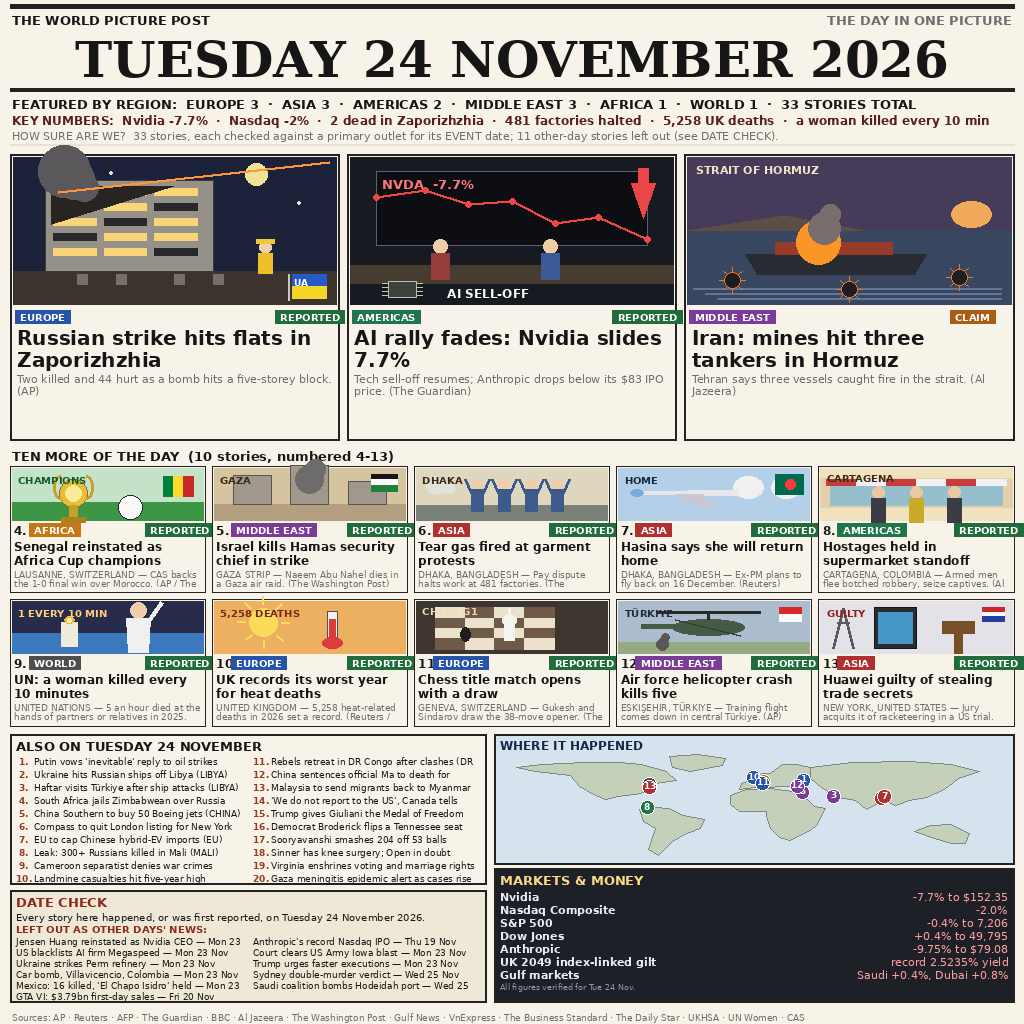
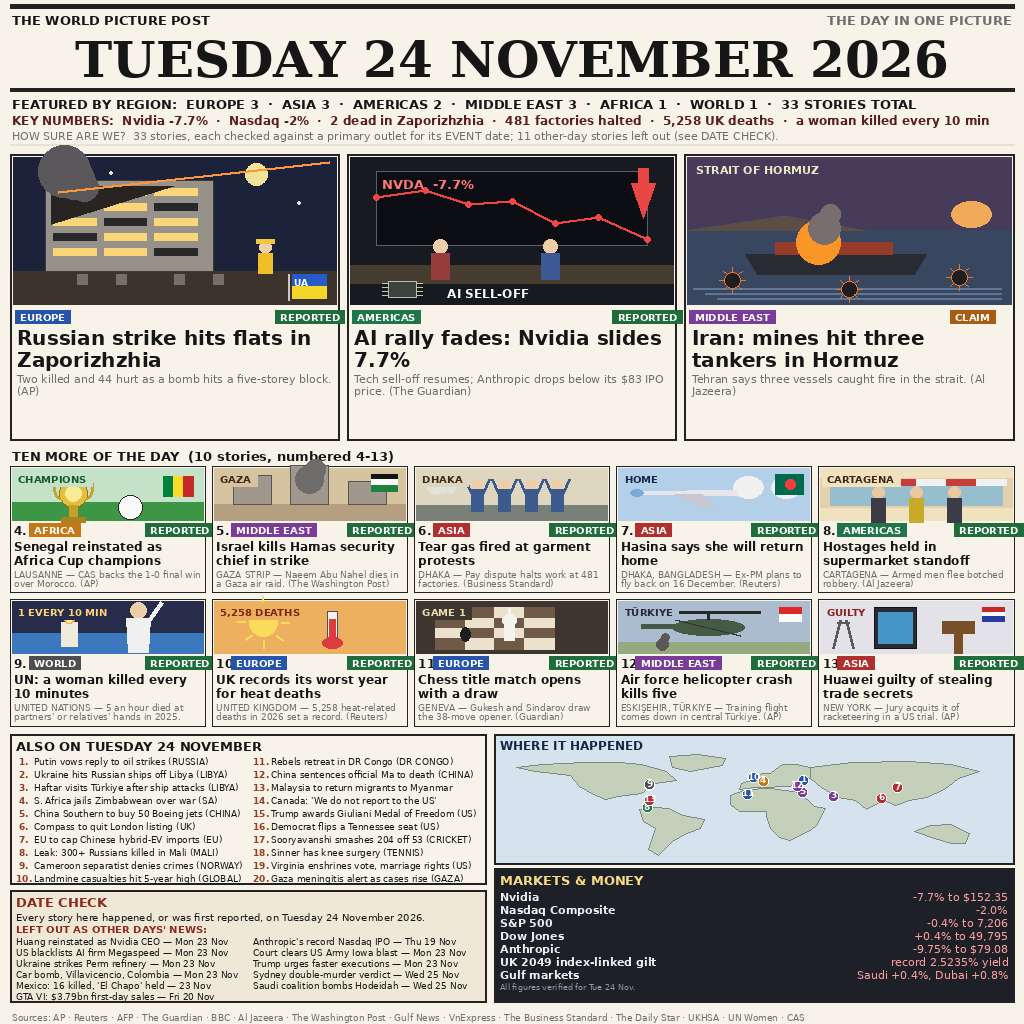
Fix text overflow: shorten medium subs, ALSO items, DATE CHECK; clean scene labels; smaller map pins

diff --git a/render.py b/render.py
@@ -61,6 +61,14 @@ def text(d, xy, s, f, fill=INK, anchor="la"):
     d.text(xy, s, font=f, fill=fill, anchor=anchor)
 
 
+def scene_label(d, x0, y0, label, fill, bg):
+    """Scene corner label on a clean patch of the scene background."""
+    f = font(FONT_B, 10)
+    tw = d.textlength(label, font=f)
+    d.rectangle((x0 + 2, y0 + 1, x0 + 2 + tw + 10, y0 + 18), fill=bg)
+    text(d, (x0 + 6, y0 + 5), label, f, fill)
+
+
 def wrap(d, s, f, maxw):
     words = s.split()
     lines, cur = [], ""
@@ -279,7 +287,7 @@ def scene_afcon(d, r):
     bx = x0 + w * 0.62
     by = y1 - h * 0.24
     d.ellipse((bx - 12, by - 12, bx + 12, by + 12), fill=(250, 250, 250), outline=(40, 40, 40))
-    text(d, (x0 + 6, y0 + 6), "CHAMPIONS", font(FONT_B, 10), (20, 90, 40))
+    scene_label(d, x0, y0, "CHAMPIONS", (20, 90, 40), (196, 226, 200))
 
 
 def scene_gaza(d, r):
@@ -299,7 +307,7 @@ def scene_gaza(d, r):
                   fill=(110, 108, 106))
     # flag (Palestinian)
     _mini_flag(d, x1 - 34, y0 + 6, 26, 17, [(20, 20, 20), (250, 250, 250), (30, 130, 60)])
-    text(d, (x0 + 6, y0 + 6), "GAZA", font(FONT_B, 10), (60, 40, 20))
+    scene_label(d, x0, y0, "GAZA", (60, 40, 20), (214, 196, 160))
 
 
 def scene_bangladesh(d, r):
@@ -319,7 +327,7 @@ def scene_bangladesh(d, r):
         d.rectangle((px - 6, py - 16, px + 6, py + 6), fill=(60, 90, 140))
         d.line((px - 6, py - 12, px - 12, py - 26), fill=(60, 90, 140), width=3)
         d.line((px + 6, py - 12, px + 12, py - 26), fill=(60, 90, 140), width=3)
-    text(d, (x0 + 6, y0 + 6), "DHAKA", font(FONT_B, 10), (60, 40, 20))
+    scene_label(d, x0, y0, "DHAKA", (60, 40, 20), (222, 214, 190))
 
 
 def scene_hasina(d, r):
@@ -337,7 +345,7 @@ def scene_hasina(d, r):
     # Bangladesh flag
     d.rectangle((x1 - 34, y0 + 6, x1 - 6, y0 + 26), fill=(0, 106, 78))
     d.ellipse((x1 - 24, y0 + 11, x1 - 14, y0 + 21), fill=(244, 60, 60))
-    text(d, (x0 + 6, y0 + 6), "HOME", font(FONT_B, 10), (20, 40, 70))
+    scene_label(d, x0, y0, "HOME", (20, 40, 70), (180, 208, 232))
 
 
 def scene_cartagena(d, r):
@@ -356,7 +364,7 @@ def scene_cartagena(d, r):
         py = y1 - h * 0.1
         d.ellipse((px - 6, py - 28, px + 6, py - 16), fill=(236, 200, 160))
         d.rectangle((px - 7, py - 16, px + 7, py + 8), fill=col)
-    text(d, (x0 + 6, y0 + 4), "CARTAGENA", font(FONT_B, 10), (60, 40, 20))
+    scene_label(d, x0, y0, "CARTAGENA", (60, 40, 20), (240, 226, 190))
 
 
 def scene_femicide(d, r):
@@ -376,7 +384,7 @@ def scene_femicide(d, r):
     d.ellipse((px - 8, py - 30, px + 8, py - 14), fill=(238, 206, 168))
     d.polygon([(px - 12, py - 14), (px + 12, py - 14), (px + 10, py + 20), (px - 10, py + 20)], fill=(240, 240, 240))
     d.line((px + 10, py - 10, px + 24, py - 30), fill=(240, 240, 240), width=4)
-    text(d, (x0 + 6, y0 + 6), "1 EVERY 10 MIN", font(FONT_B, 10), (255, 210, 120))
+    scene_label(d, x0, y0, "1 EVERY 10 MIN", (255, 210, 120), (38, 44, 74))
 
 
 def scene_ukheat(d, r):
@@ -396,7 +404,7 @@ def scene_ukheat(d, r):
     d.rectangle((tx - 5, y0 + h * 0.2, tx + 5, y0 + h * 0.72), fill=(240, 240, 240), outline=(80, 80, 80))
     d.ellipse((tx - 10, y0 + h * 0.7, tx + 10, y0 + h * 0.9), fill=(220, 60, 60))
     d.rectangle((tx - 3, y0 + h * 0.34, tx + 3, y0 + h * 0.72), fill=(220, 60, 60))
-    text(d, (x0 + 6, y0 + 6), "5,258 DEATHS", font(FONT_B, 10), (120, 40, 20))
+    scene_label(d, x0, y0, "5,258 DEATHS", (120, 40, 20), (236, 176, 96))
 
 
 def scene_chess(d, r):
@@ -421,7 +429,7 @@ def scene_chess(d, r):
     # pawn
     d.ellipse((bx0 + (bx1 - bx0) * 0.25 - 5, by0 + (by1 - by0) * 0.66 - 8,
                bx0 + (bx1 - bx0) * 0.25 + 5, by0 + (by1 - by0) * 0.66 + 6), fill=(30, 30, 30))
-    text(d, (x0 + 6, y0 + 4), "CHESS G1", font(FONT_B, 10), (240, 220, 180))
+    scene_label(d, x0, y0, "GAME 1", (240, 220, 180), (60, 54, 46))
 
 
 def scene_helicopter(d, r):
@@ -441,7 +449,7 @@ def scene_helicopter(d, r):
         d.ellipse((x0 + w * 0.2 + k * 5, y1 - h * 0.28 - k * 5, x0 + w * 0.2 + k * 5 + rad, y1 - h * 0.28 - k * 5 + rad),
                   fill=(90, 88, 86))
     _mini_flag(d, x1 - 30, y0 + 6, 22, 14, [(220, 40, 40), (250, 250, 250)])
-    text(d, (x0 + 6, y0 + 6), "TÜRKIYE", font(FONT_B, 10), (40, 40, 60))
+    scene_label(d, x0, y0, "TÜRKIYE", (40, 40, 60), (170, 188, 206))
 
 
 def scene_huawei(d, r):
@@ -464,7 +472,7 @@ def scene_huawei(d, r):
     d.rectangle((gx - 16, gy - 6, gx + 16, gy + 6), fill=(120, 80, 40))
     d.rectangle((gx - 4, gy + 4, gx + 4, gy + 26), fill=(120, 80, 40))
     _mini_flag(d, x1 - 30, y0 + 6, 22, 14, [(200, 40, 40), (250, 250, 250), (40, 60, 160)])
-    text(d, (x0 + 6, y0 + 6), "GUILTY", font(FONT_B, 10), (140, 30, 30))
+    scene_label(d, x0, y0, "GUILTY", (140, 30, 30), (226, 226, 232))
 
 
 # ----------------------------------------------------------------------------
@@ -492,82 +500,82 @@ BIG = [
 
 MEDIUM = [
     dict(n=4, region=AF, tag="REPORTED", scene=scene_afcon,
-         loc="LAUSANNE, SWITZERLAND",
+         loc="LAUSANNE",
          head="Senegal reinstated as Africa Cup champions",
-         sub="CAS backs the 1-0 final win over Morocco. (AP / The Guardian)"),
+         sub="CAS backs the 1-0 final win over Morocco. (AP)"),
     dict(n=5, region=ME, tag="REPORTED", scene=scene_gaza,
          loc="GAZA STRIP",
          head="Israel kills Hamas security chief in strike",
          sub="Naeem Abu Nahel dies in a Gaza air raid. (The Washington Post)"),
     dict(n=6, region=AS, tag="REPORTED", scene=scene_bangladesh,
-         loc="DHAKA, BANGLADESH",
+         loc="DHAKA",
          head="Tear gas fired at garment protests",
-         sub="Pay dispute halts work at 481 factories. (The Business Standard)"),
+         sub="Pay dispute halts work at 481 factories. (Business Standard)"),
     dict(n=7, region=AS, tag="REPORTED", scene=scene_hasina,
          loc="DHAKA, BANGLADESH",
          head="Hasina says she will return home",
          sub="Ex-PM plans to fly back on 16 December. (Reuters)"),
     dict(n=8, region=AM, tag="REPORTED", scene=scene_cartagena,
-         loc="CARTAGENA, COLOMBIA",
+         loc="CARTAGENA",
          head="Hostages held in supermarket standoff",
-         sub="Armed men flee botched robbery, seize captives. (Al Jazeera)"),
+         sub="Armed men flee botched robbery. (Al Jazeera)"),
     dict(n=9, region=WO, tag="REPORTED", scene=scene_femicide,
          loc="UNITED NATIONS",
          head="UN: a woman killed every 10 minutes",
-         sub="5 an hour died at the hands of partners or relatives in 2025. (UN Women)"),
+         sub="5 an hour died at partners' or relatives' hands in 2025."),
     dict(n=10, region=EU, tag="REPORTED", scene=scene_ukheat,
          loc="UNITED KINGDOM",
          head="UK records its worst year for heat deaths",
-         sub="5,258 heat-related deaths in 2026 set a record. (Reuters / UKHSA)"),
+         sub="5,258 heat-related deaths in 2026 set a record. (Reuters)"),
     dict(n=11, region=EU, tag="REPORTED", scene=scene_chess,
-         loc="GENEVA, SWITZERLAND",
+         loc="GENEVA",
          head="Chess title match opens with a draw",
-         sub="Gukesh and Sindarov draw the 38-move opener. (The Guardian)"),
+         sub="Gukesh and Sindarov draw the 38-move opener. (Guardian)"),
     dict(n=12, region=ME, tag="REPORTED", scene=scene_helicopter,
          loc="ESKIŞEHIR, TÜRKIYE",
          head="Air force helicopter crash kills five",
          sub="Training flight comes down in central Türkiye. (AP)"),
     dict(n=13, region=AS, tag="REPORTED", scene=scene_huawei,
-         loc="NEW YORK, UNITED STATES",
+         loc="NEW YORK",
          head="Huawei guilty of stealing trade secrets",
-         sub="Jury acquits it of racketeering in a US trial. (AP / Reuters)"),
+         sub="Jury acquits it of racketeering in a US trial. (AP)"),
 ]
 
 ALSO = [
-    "Putin vows 'inevitable' reply to oil strikes (RUSSIA)",
+    "Putin vows reply to oil strikes (RUSSIA)",
     "Ukraine hits Russian ships off Libya (LIBYA)",
     "Haftar visits Türkiye after ship attacks (LIBYA)",
-    "South Africa jails Zimbabwean over Russia war (SA)",
+    "S. Africa jails Zimbabwean over war (SA)",
     "China Southern to buy 50 Boeing jets (CHINA)",
-    "Compass to quit London listing for New York (UK)",
+    "Compass to quit London listing (UK)",
     "EU to cap Chinese hybrid-EV imports (EU)",
     "Leak: 300+ Russians killed in Mali (MALI)",
-    "Cameroon separatist denies war crimes (NORWAY)",
-    "Landmine casualties hit five-year high (GLOBAL)",
-    "Rebels retreat in DR Congo after clashes (DR CONGO)",
-    "China sentences official Ma to death for spying (CHINA)",
-    "Malaysia to send migrants back to Myanmar (MALAYSIA)",
-    "'We do not report to the US', Canada tells Pentagon",
-    "Trump gives Giuliani the Medal of Freedom (US)",
-    "Democrat Broderick flips a Tennessee seat (US)",
-    "Sooryavanshi smashes 204 off 53 balls (CRICKET)",
-    "Sinner has knee surgery; Open in doubt (TENNIS)",
-    "Virginia enshrines voting and marriage rights (US)",
-    "Gaza meningitis epidemic alert as cases rise (GAZA)",
+    "Cameroon separatist denies crimes (NORWAY)",
+    "Landmine casualties hit 5-year high (GLOBAL)",
+    "Rebels retreat in DR Congo (DR CONGO)",
+    "China sentences official Ma to death (CHINA)",
+    "Malaysia to return migrants to Myanmar",
+    "Canada: 'We do not report to the US'",
+    "Trump awards Giuliani Medal of Freedom (US)",
+    "Democrat flips a Tennessee seat (US)",
+    "Sooryavanshi smashes 204 off 53 (CRICKET)",
+    "Sinner has knee surgery (TENNIS)",
+    "Virginia enshrines vote, marriage rights (US)",
+    "Gaza meningitis alert as cases rise (GAZA)",
 ]
 
 EXCLUDED = [
-    ("Jensen Huang reinstated as Nvidia CEO", "Mon 23 Nov"),
+    ("Huang reinstated as Nvidia CEO", "Mon 23 Nov"),
     ("US blacklists AI firm Megaspeed", "Mon 23 Nov"),
     ("Ukraine strikes Perm refinery", "Mon 23 Nov"),
     ("Car bomb, Villavicencio, Colombia", "Mon 23 Nov"),
-    ("Mexico: 16 killed, 'El Chapo Isidro' held", "Mon 23 Nov"),
+    ("Mexico: 16 killed, 'El Chapo' held", "23 Nov"),
     ("GTA VI: $3.79bn first-day sales", "Fri 20 Nov"),
     ("Anthropic's record Nasdaq IPO", "Thu 19 Nov"),
     ("Court clears US Army Iowa blast", "Mon 23 Nov"),
     ("Trump urges faster executions", "Mon 23 Nov"),
     ("Sydney double-murder verdict", "Wed 25 Nov"),
-    ("Saudi coalition bombs Hodeidah port", "Wed 25 Nov"),
+    ("Saudi coalition bombs Hodeidah", "Wed 25 Nov"),
 ]
 
 MARKETS = [
@@ -680,11 +688,15 @@ def draw_map(d, r, num_font):
         pts = [project(lon, lat) for lon, lat in poly]
         d.polygon(pts, fill=(196, 208, 186), outline=(120, 140, 130))
     col, _ = REGION[EU]
+    # pins that would sit on top of each other get a small nudge
+    NUDGE = {11: (-15, 11), 13: (0, 13), 7: (13, -9)}
     for n, (lon, lat) in PINS.items():
         px, py = project(lon, lat)
+        dx, dy = NUDGE.get(n, (0, 0))
+        px, py = px + dx, py + dy
         reg = BIG[n - 1]["region"] if n <= 3 else MEDIUM[n - 4]["region"]
         c = REGION[reg][0]
-        d.ellipse((px - 7, py - 7, px + 7, py + 7), fill=c, outline=(255, 255, 255))
+        d.ellipse((px - 5, py - 5, px + 5, py + 5), fill=c, outline=(255, 255, 255))
         text(d, (px, py - 1), str(n), num_font, (255, 255, 255), anchor="mm")
 
 
